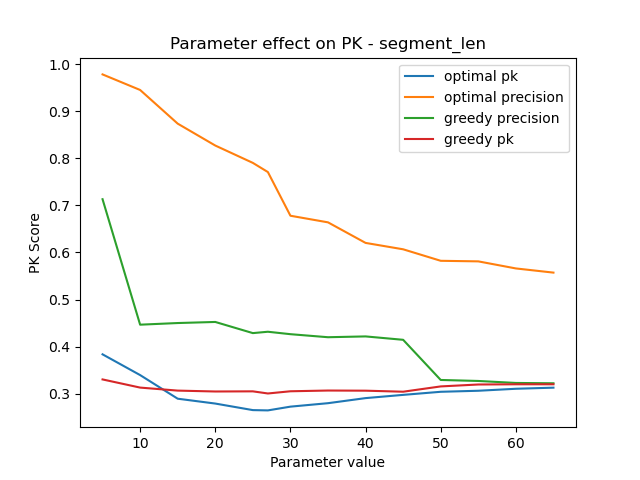
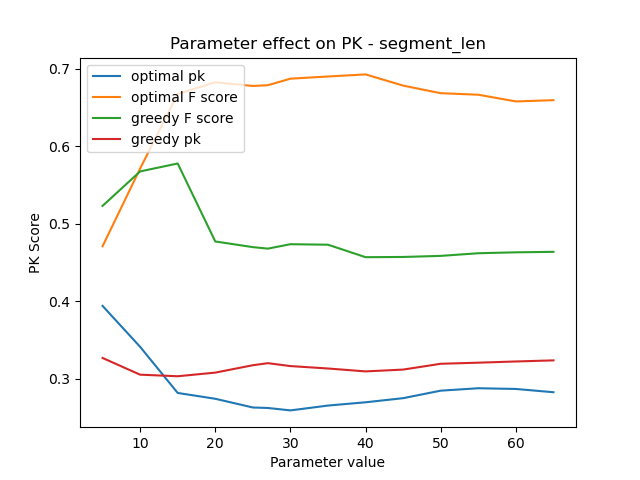
Fixed to F score

diff --git a/sentence_builder/text_split_grid_search_graphs_params.py b/sentence_builder/text_split_grid_search_graphs_params.py
@@ -37,16 +37,16 @@ if __name__ == '__main__':
     }
     results = {}
 
-    optimal_values = {
-    'segment_len': 30,
-    'cbow': 1,
-    'negative': 0,
-    'iter_': 5,
-    'hs': 1,
-    'sample' : '1e-5',
-    'window' : 15,
-    'size': 200,
-    'binary':1
+    optimal_values = {  # a result of grid searching
+        'binary': 1,
+        'cbow': 1,
+        'hs': 1,
+        'iter_': 5,
+        'negative': 3,
+        'sample': '0',
+        'segment_len': 25,
+        'size': 150,
+        'window': 15
     }
 
     allNames = sorted(possible_values)
@@ -55,7 +55,7 @@ if __name__ == '__main__':
     Path("./figures").mkdir(exist_ok=True)
 
     for param_to_test in allNames:
-        param_values, param_results_opt, param_results_greedy, param_res_precision_opt, param_res_precision_greedy = [], [], [], [], []
+        param_values, param_results_opt, param_results_greedy, param_res_f_opt, param_res_f_greedy = [], [], [], [], []
         if param_to_test in ('binary','hs','iter_','cbow'):
             continue
         for value in possible_values.get(param_to_test):
@@ -81,11 +81,11 @@ if __name__ == '__main__':
             optimal_predicted_sentences = sorted(optimal_segmentation.splits) + [len(casas_df)]
             optimal_pk = break_seq_p_k(optimal_predicted_sentences, true_sentences)
             greedy_pk = break_seq_p_k(greedy_predicted_sentences, true_sentences)
-            precision_greedy = precision_recall(true_sentences, greedy_predicted_sentences, len(casas_df))[0]
-            precision_opt = precision_recall(true_sentences, optimal_predicted_sentences, len(casas_df))[0]
+            f_greedy = precision_recall(true_sentences, greedy_predicted_sentences, len(casas_df))[3]
+            f_opt = precision_recall(true_sentences, optimal_predicted_sentences, len(casas_df))[3]
 
-            param_res_precision_opt.append(precision_opt)
-            param_res_precision_greedy.append(precision_greedy)
+            param_res_f_opt.append(f_opt)
+            param_res_f_greedy.append(f_greedy)
             param_values.append(value)
             param_results_opt.append(optimal_pk)
             param_results_greedy.append(greedy_pk)
@@ -96,8 +96,8 @@ if __name__ == '__main__':
         plt.xlabel('Parameter value')
         plt.ylabel('PK Score')
         plt.plot(param_values, param_results_opt, label='optimal pk')
-        plt.plot(param_values, param_res_precision_opt, label='optimal precision')
-        plt.plot(param_values, param_res_precision_greedy, label='greedy precision')
+        plt.plot(param_values, param_res_f_opt, label='optimal F score')
+        plt.plot(param_values, param_res_f_greedy, label='greedy F score')
         plt.plot(param_values, param_results_greedy, label='greedy pk')
         plt.legend()
         plt.savefig(f'./figures/param_changes_{param_to_test}.png')

diff --git a/sentence_builder/text_split.py b/sentence_builder/text_split.py
@@ -21,15 +21,16 @@ if __name__ == '__main__':
             text_file.write(str(item) + " ")
 
     wrdvec_path = 'wrdvecs.bin'
-    if not os.path.exists(wrdvec_path):
-        word2vec.word2vec(corpus_path, wrdvec_path, cbow=1, iter_=5, hs=1, threads=8, sample='1e-5', window=15, size=200, binary=1)
+    if not os.path.exists(wrdvec_path):  # optimal params from grid search
+        word2vec.word2vec(corpus_path, wrdvec_path, cbow=1, iter_=5, hs=1, threads=8, sample='1e-5', window=15, size=150, binary=1)
 
     model = word2vec.load(wrdvec_path)
     wrdvecs = pd.DataFrame(model.vectors, index=model.vocab)
     del model
     print(wrdvecs.shape)
 
-    segment_len = 30  # segment target length in sentences
+    # optimal params from grid search
+    segment_len = 25  # segment target length in sentences
     sentenced_text = [str(i) for i in casas_df["Description_ID"]]
 
     vecr = CountVectorizer(vocabulary=wrdvecs.index)
